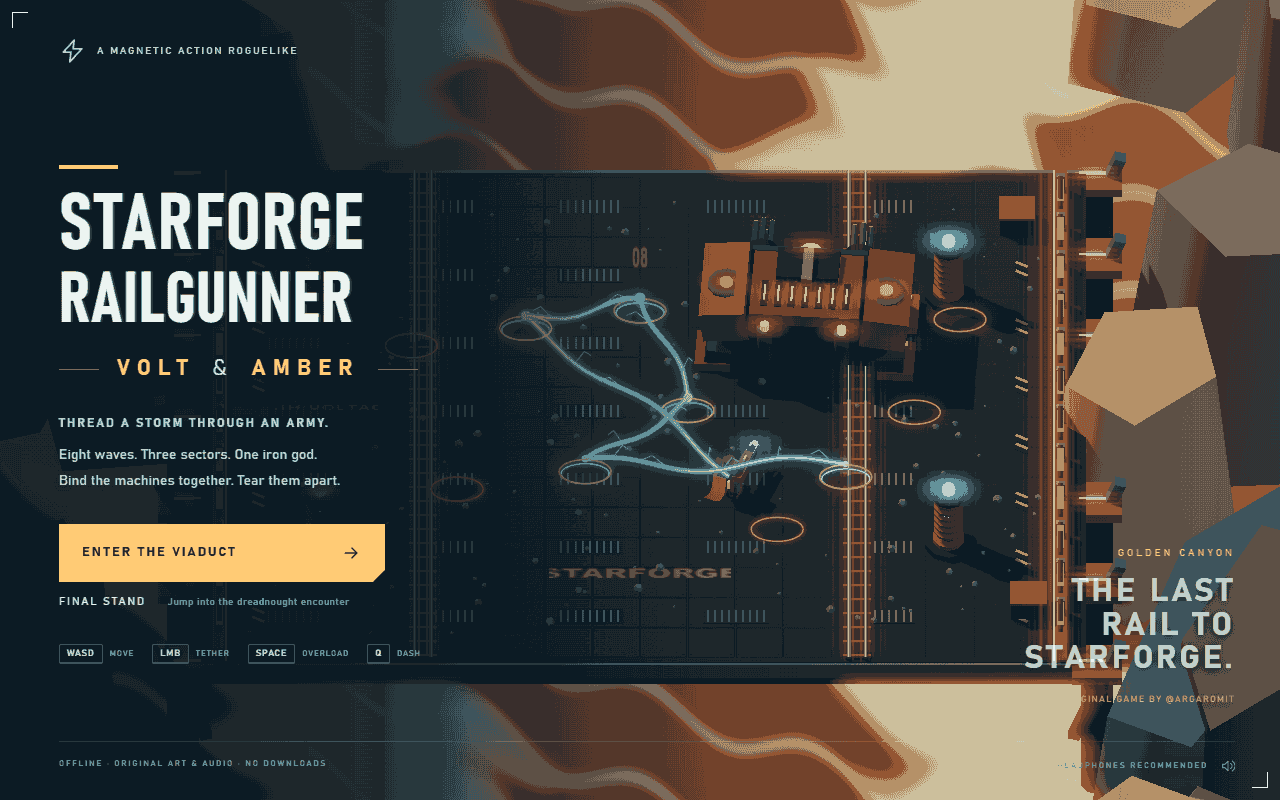
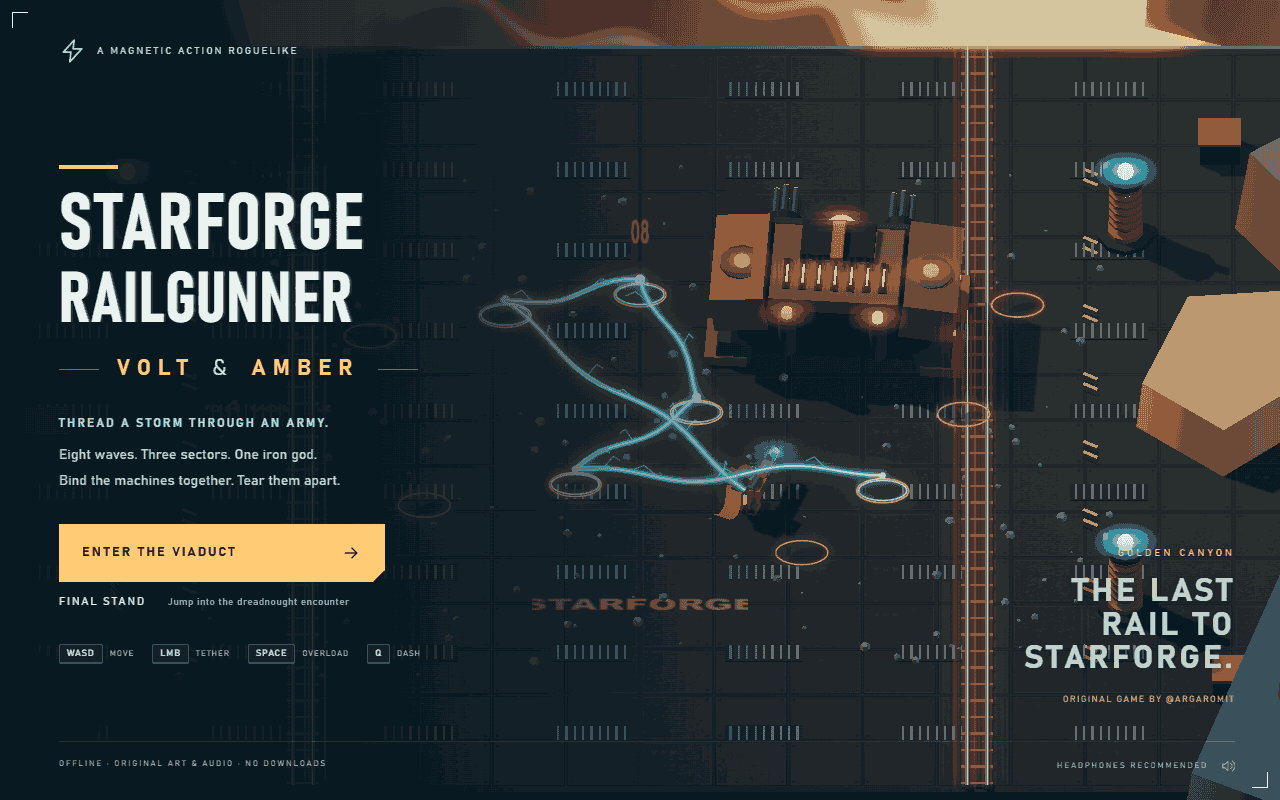
Polish Starforge camera and combat dossier

diff --git a/game/ui.css b/game/ui.css
@@ -1,3 +1,5 @@
 @font-face{font-family:Forge;src:local("Bahnschrift Condensed"),local("Bahnschrift"),local("Arial Narrow");font-weight:100 900}
+.top-center .route{width:max-content;margin:13px auto 0;padding:7px 15px;border-radius:2px;background:rgba(4,15,23,.9);border:1px solid #93bdc84d;color:#d4e3e5;box-shadow:0 2px 9px #0005}
+.damage.large{padding:2px 11px;background:#061821d9;border-block:1px solid #83f4ff5c}
 :root{color-scheme:dark;--cyan:#83f4ff;--amber:#ffca73;--coral:#ff7d64;--white:#ecf4f1;--muted:#a7b9bd;--glass:rgba(6,19,27,.83)}
 *{box-sizing:border-box}html,body{margin:0;width:100%;height:100%;overflow:hidden;background:#07141e;color:var(--white);font-family:Forge,"Arial Narrow",Arial,sans-serif}button{font:inherit;color:inherit;cursor:pointer}button:focus-visible{outline:2px solid white;outline-offset:5px}button:hover{filter:brightness(1.2)}button:active{transform:translateY(2px)}canvas{position:absolute;width:100%;height:100%;display:block;inset:0}#effects{pointer-events:none}#ui{position:absolute;inset:0;pointer-events:none;overflow:hidden}.ui-root{width:1280px;height:800px;position:absolute;left:50%;top:50%;transform-origin:50% 50%;overflow:hidden}.icon{width:22px;height:22px;flex-shrink:0;vertical-align:middle}.hidden{display:none!important}h1,h2,h3,p{margin:0}.micro{font-size:12px;letter-spacing:1.8px;font-weight:700}.hud{position:absolute;inset:0;text-shadow:0 1px 4px #000;font-variant-numeric:tabular-nums}.mission{position:absolute;left:30px;top:27px;width:270px;background:linear-gradient(100deg,var(--glass),transparent);padding:0 10px 12px 0}.sector{font-size:11px;color:var(--amber);letter-spacing:1.2px}.mission h2{font-size:27px;line-height:39px;letter-spacing:.7px;font-weight:850;white-space:nowrap}.mission h2>span{font-size:19px;color:#a5b6bb}.mission h2 small{font-size:11px;letter-spacing:.7px;margin-left:9px;color:#e2e6dd}.heat-line{display:flex;justify-content:space-between;align-items:center;width:226px;font-size:10px;font-weight:700;letter-spacing:1px;color:#c4cfd0;margin-top:4px}.heat-line span{color:var(--amber)}.meter{height:6px;background:#1a343d;overflow:hidden;transform:skewX(-14deg)}.meter i{display:block;height:100%;transition:width .12s linear}.heat{width:226px;margin-top:6px;height:5px}.heat i{background:var(--amber);box-shadow:0 0 9px #ffaf41}.incoming{display:flex;align-items:center;gap:7px;margin-top:12px;font-size:10px;color:#b1c0c4;letter-spacing:.7px;flex-wrap:wrap;max-width:250px}.incoming>.icon{width:17px;height:17px;color:#ff987c}.incoming>b{font-size:13px;color:#f2ded0;margin-right:6px}.incoming>small{flex-basis:100%;font-size:9px;letter-spacing:1.7px;color:#7ea2aa;margin-top:2px}.top-center{position:absolute;top:24px;left:354px;width:543px}.record{display:flex;gap:18px;align-items:center;justify-content:center;height:28px;font-size:10px;letter-spacing:1px}.record>span:first-child,.record>span:nth-child(2){display:flex;gap:18px;align-items:center;padding:6px 13px;border:1px solid #91f0ff38;background:#061922b3}.record b{font-size:16px;color:var(--cyan)}.record>span:nth-child(2){border-color:#e4a47436}.record>span:nth-child(2) b{color:var(--amber)}.record time{font-size:13px;letter-spacing:1px;color:#d8e2df}.record>i{height:15px;width:1px;background:#fff3}.run-tag{font-size:9px;color:#90afb5}.boss{margin-top:17px}.boss>div:first-child{display:flex;align-items:baseline;gap:13px;margin-bottom:7px;font-size:11px;letter-spacing:1.2px}.boss b{font-size:17px;color:#fff0e2}.boss span{font-size:9px;color:#d7b7a0}.boss small{margin-left:auto;color:var(--amber);font-size:11px}.boss-track{height:9px;border:1px solid #ffbd634d;padding:2px;background:#111b22}.boss-track i{display:block;height:100%;background:linear-gradient(90deg,#fb7757,#ffd27d);box-shadow:0 0 12px #ffb24699}.route{display:flex;gap:10px;align-items:center;justify-content:center;margin-top:13px;font-size:9px;letter-spacing:1px;color:#72929e}.route>i{width:30px;height:1px;background:#76939d66}.route span.active{color:var(--amber)}.scoring{position:absolute;right:30px;top:25px;width:244px;text-align:right;background:linear-gradient(-90deg,var(--glass),transparent)}.scoring>label{font-size:10px;letter-spacing:3px;color:#afc1c4}.scoring>strong{font-size:42px;font-weight:800;letter-spacing:1px;display:block;line-height:46px}.combo{font-size:11px;letter-spacing:1.5px;color:#b2c9cd}.combo b{color:var(--cyan);font-size:23px;margin-left:13px}.currency{display:flex;align-items:center;justify-content:flex-end;gap:8px;margin-top:10px;font-size:9px;letter-spacing:1px;color:#d5b78e}.currency .icon{width:16px;height:16px;color:var(--amber)}.currency b{font-size:17px;color:var(--amber);margin-left:5px}.equipment{position:absolute;right:29px;top:205px;width:172px;background:linear-gradient(-90deg,#071b25c9,transparent);padding-left:5px}.equipment h3{font-size:10px;letter-spacing:1.8px;font-weight:700;color:#d0dedc;border-bottom:1px solid #c5e8f433;padding-bottom:9px}.mod{display:flex;align-items:center;gap:8px;margin-top:14px;position:relative;height:27px}.mod .icon{width:21px;height:21px;color:var(--cyan)}.mod:nth-child(3) .icon{color:var(--amber)}.mod:nth-child(4) .icon{color:var(--coral)}.mod>span{font-size:9px;letter-spacing:.7px}.mod>b{display:flex;gap:4px;position:absolute;left:30px;top:23px}.mod i{display:block;width:17px;height:3px;background:#4f6c745c}.mod i.on{background:var(--cyan);box-shadow:0 0 5px #83f4ff88}.mod:nth-child(3) i.on{background:var(--amber)}.mod:nth-child(4) i.on{background:var(--coral)}.equipment h3.relic-title{margin-top:31px;padding-bottom:9px}.relics{display:flex;gap:8px;margin-top:12px}.relics>div{display:flex;align-items:center;flex-direction:column;width:47px;height:55px;border:1px solid #83f4ff3d;background:#142f3a99;padding-top:8px;color:var(--cyan)}.relics>div:nth-child(2){color:var(--amber);border-color:#ffca734f;background:#372a1b99}.relics>div:nth-child(3){color:#d2adff;border-color:#d2adff4d;background:#28223c99}.relics small{font-size:6px;letter-spacing:.4px;white-space:nowrap;margin-top:8px}.circuit-count{position:absolute;left:31px;bottom:145px;display:flex;align-items:center;gap:12px;background:linear-gradient(90deg,#061923bd,transparent);padding:7px 30px 7px 0}.circuit-count>span{font-size:45px;font-weight:800;line-height:45px;color:var(--cyan)}.circuit-count>div:nth-child(2){font-size:11px;letter-spacing:1.5px}.circuit-count small{display:block;font-size:8px;letter-spacing:1.2px;color:var(--amber);margin-top:6px}.circuit-lights{display:flex;position:absolute;left:0;bottom:-5px;gap:4px}.circuit-lights>i{display:block;width:25px;height:3px;background:#4c6e7955}.circuit-lights>i.lit{background:var(--cyan);box-shadow:0 0 8px #6ef2ff}.bottom-hud{position:absolute;bottom:0;left:0;width:100%;height:116px;background:linear-gradient(0deg,#05141bf5,#05141bb8 75%,transparent);border-bottom:3px solid #be94523b}.vitals{position:absolute;left:31px;bottom:21px;width:280px}.armor-label{display:flex;align-items:center;gap:8px;font-size:11px;letter-spacing:1.1px;margin-bottom:8px}.armor-label .icon{width:19px;height:19px;color:var(--cyan)}.armor-label>strong{margin-left:auto;font-size:22px;letter-spacing:0;line-height:25px}.armor-label small{font-size:14px;color:#91acb1}.armor{height:9px}.armor i{background:var(--cyan);box-shadow:0 0 9px #6ed6ee}.capacitor-label{display:flex;justify-content:space-between;font-size:9px;letter-spacing:1.2px;margin:11px 0 6px;color:#c5d6d7}.capacitor-label>b{color:var(--amber)}.capacitor{height:4px}.capacitor i{background:var(--amber)}.controls{display:flex;align-items:center;gap:24px;position:absolute;bottom:43px;left:364px}.controls>div{display:flex;flex-direction:column;gap:8px;font-size:9px;letter-spacing:1px;color:#bbd0d0}.controls>div kbd{color:#e9f5ee;font-size:12px;line-height:24px;min-height:25px}.controls .overload-key kbd{color:var(--cyan);border-color:#83f4ff5e}.controls>p{position:absolute;bottom:-25px;left:0;font-size:8px;letter-spacing:3.5px;color:#829fa7;white-space:nowrap}.controls p i{margin:0 10px;color:var(--amber);font-style:normal}kbd{font:inherit;border:1px solid #bad2d142;border-bottom-width:2px;padding:4px 7px;background:#102a3380;border-radius:2px}.utility{position:absolute;right:30px;bottom:35px;display:flex;gap:9px}.utility button{pointer-events:auto;width:36px;height:36px;border:1px solid #c9e7e12d;background:#17343b66;color:#b0cbd0;padding:7px}.utility .icon{width:20px;height:20px}.utility .muted{opacity:.4}.announcer{position:absolute;left:50%;top:177px;text-align:center;transform:translate(-50%,-8px);opacity:0;transition:opacity .25s,transform .3s;pointer-events:none;text-shadow:0 2px 10px #000}.announcer.show{opacity:1;transform:translate(-50%,0)}.announcer b{display:block;font-size:28px;letter-spacing:3px;color:#fff1d8}.announcer span{display:block;font-size:10px;letter-spacing:2px;color:var(--amber);margin-top:4px}.damage{position:absolute;font-size:24px;font-weight:850;color:var(--cyan);text-shadow:0 2px 3px #031724,0 0 12px #58d8ff9c;animation:float-damage 1.15s ease-out forwards;white-space:nowrap}.damage.amber{color:var(--amber);text-shadow:0 2px 3px #221505,0 0 12px #ffa63899}.damage.coral{color:var(--coral)}.damage.large{font-size:37px;letter-spacing:1px;font-style:italic}.modal{position:absolute;inset:0;background:linear-gradient(90deg,#03141bf5,#041820d4 45%,#03172233);pointer-events:auto;text-shadow:0 2px 9px #00101aaa}.modal.title{background:linear-gradient(90deg,#041520ee 0%,#051b25e6 30%,#03131e55 56%,#06172305 100%)}.title-mark{position:absolute;left:59px;top:38px;display:flex;align-items:center;gap:12px;font-size:10px;letter-spacing:2px;color:#bed5d4}.title-mark .icon{width:26px;height:26px;color:var(--cyan)}.title-content{position:absolute;left:59px;top:165px;width:645px}.title-rule{width:59px;height:4px;background:var(--amber);margin-bottom:21px}.title-content h1{font-family:Forge,Impact,"Arial Black",sans-serif;font-stretch:condensed;font-size:79px;line-height:.91;letter-spacing:1.5px;font-weight:900;text-shadow:0 3px 2px #001923,2px 0 #70b4c747}.title-content h1>span{font-size:71px;line-height:1.12}.subtitle{display:flex;align-items:center;gap:18px;margin-top:15px;width:466px;font-size:22px;font-weight:700;letter-spacing:7px;color:var(--amber)}.subtitle em{font-style:normal;color:#d4e6e5;font-weight:300}.subtitle i{height:1px;background:#d9b47688;width:40px}.title-promise{font-size:12px;letter-spacing:2px;margin-top:34px;color:var(--cyan);font-weight:650}.title-copy{font-size:14px;line-height:1.8;margin-top:13px;color:#b9cbd0}.primary{display:flex;align-items:center;justify-content:space-between;gap:40px;min-width:326px;background:var(--amber);color:#152129;border:1px solid #ffe1a5;box-shadow:0 4px 30px #ffb13c1a;padding:18px 22px;font-size:13px;letter-spacing:2px;font-weight:800;text-shadow:none;clip-path:polygon(0 0,100% 0,100% calc(100% - 12px),calc(100% - 12px) 100%,0 100%)}.title-content>.primary{margin-top:30px}.primary>.icon{height:20px}.secondary{display:block;background:none;border:0;padding:13px 0;font-size:11px;letter-spacing:1.8px;color:#d5e9e6;text-align:left}.secondary>span{color:#94aeb6;font-size:10px;letter-spacing:.4px;margin-left:17px;font-weight:400}.title-controls{display:flex;gap:18px;margin-top:27px;white-space:nowrap}.title-controls>span{font-size:8px;letter-spacing:.9px;color:#90adb7}.title-controls kbd{font-size:9px;color:#dce9e5;margin-right:4px}.title-side{position:absolute;right:45px;bottom:95px;text-align:right;opacity:.9;text-shadow:0 2px 10px #091524}.title-side>span{color:var(--amber);font-size:10px;letter-spacing:3px}.title-side>b{display:block;font-size:32px;line-height:1.05;letter-spacing:3px;margin-top:15px;color:#e4e6d9}.title-side>p{font-size:9px;letter-spacing:1.3px;margin-top:17px;color:#d5bb8c}.title-footer{position:absolute;left:59px;right:45px;bottom:27px;display:flex;justify-content:space-between;border-top:1px solid #a9d0d02a;padding-top:17px;font-size:8px;letter-spacing:1.8px;color:#8aa6b0}.title-footer .icon{width:14px;height:14px;margin-left:9px}.modal.upgrade,.modal.victory,.modal.defeat,.modal.paused{background:linear-gradient(120deg,#05161cf5,#09232cf0);backdrop-filter:blur(9px)}.upgrade-heading{text-align:center;position:absolute;top:111px;left:0;width:100%}.upgrade-heading .micro{font-size:10px;color:var(--amber);letter-spacing:3px}.upgrade-heading h1{font-size:51px;letter-spacing:2px;line-height:1.2;margin-top:15px;font-weight:850}.upgrade-heading p{font-size:13px;color:#a5c2c8;margin-top:11px}.upgrade-cards{position:absolute;left:115px;top:292px;display:flex;gap:23px}.upgrade-card{width:334px;height:341px;border:1px solid #83f4ff5c;background:linear-gradient(145deg,#153842dd,#091d27);padding:25px 27px;text-align:left;position:relative;color:var(--cyan);transition:transform .2s,border-color .2s}.upgrade-card:hover,.upgrade-card:focus-visible{transform:translateY(-9px);border-color:currentColor;filter:none;background:#163b47}.upgrade-card.amber{color:var(--amber);border-color:#ffca7355;background:linear-gradient(145deg,#3c3423dd,#141e21)}.upgrade-card.coral{color:var(--coral);border-color:#ff7d6455;background:linear-gradient(145deg,#3c2926dd,#161e24)}.card-number{position:absolute;right:24px;top:22px;font-size:8px;letter-spacing:1.7px;color:#93b0b9}.upgrade-emblem{width:63px;height:63px;display:flex;align-items:center;justify-content:center;border:1px solid currentColor;transform:rotate(45deg);margin:13px 0 30px 14px}.upgrade-emblem .icon{width:35px;height:35px;transform:rotate(-45deg)}.card-tag{display:block;font-size:8px;letter-spacing:2.5px;margin-bottom:8px}.upgrade-card h2{font-size:29px;letter-spacing:.3px;color:#edf3e9;font-weight:850;white-space:nowrap}.upgrade-card>strong{font-size:10px;letter-spacing:1px;display:block;margin-top:13px}.upgrade-card>p{font-size:12px;line-height:1.8;color:#aec3c7;margin-top:12px;max-width:270px}.card-bottom{position:absolute;bottom:20px;left:27px;right:27px;border-top:1px solid #c8eff222;padding-top:13px;display:flex;align-items:center;gap:10px;font-size:9px;letter-spacing:1.2px}.card-bottom .icon{height:15px;width:15px}.card-bottom small{margin-left:auto;font-size:9px;color:#b5c8c7}.workshop-foot{position:absolute;left:126px;right:125px;bottom:100px;display:flex;align-items:center;gap:11px;font-size:10px;letter-spacing:1.6px;color:#b5d5d0}.workshop-foot .icon{width:17px;height:17px;color:var(--cyan)}.workshop-foot>span{margin-left:auto;color:#738f9a;font-size:9px}.result-content{position:absolute;left:50%;top:66px;transform:translateX(-50%);width:830px;text-align:center}.result-medal{margin:auto auto 21px;display:flex;align-items:center;justify-content:center;width:83px;height:83px;border:1px solid #ffca7355;color:var(--amber);clip-path:polygon(50% 0,95% 25%,95% 75%,50% 100%,5% 75%,5% 25%);background:#a67c2520}.result-medal>.icon{width:45px;height:45px}.result-content>.micro{color:#b4d0d2;font-size:10px;letter-spacing:3px}.result-content>h1{font-size:93px;letter-spacing:8px;line-height:1.1;margin-top:17px;font-weight:850;color:#f4f0da}.defeat h1{font-size:70px;color:var(--coral)}.result-rank{margin-top:8px;font-size:29px;font-weight:700;letter-spacing:6px;color:var(--amber);display:flex;justify-content:center;align-items:center;gap:23px}.result-rank>span{border-left:1px solid #e8c68466;padding-left:23px;font-size:12px;letter-spacing:3px;color:#a3d8df}.result-content>p{font-size:13px;color:#aec8cd;margin-top:22px}.result-stats{display:flex;margin:41px auto 34px;border-top:1px solid #c0ebf131;border-bottom:1px solid #c0ebf131;padding:24px 0;justify-content:center;gap:38px}.result-stats>div{min-width:140px;display:flex;flex-direction:column;gap:9px}.result-stats span{font-size:9px;letter-spacing:1.5px;color:#8babb5}.result-stats b{font-size:33px;color:var(--cyan)}.result-stats>div:first-child b{color:var(--amber)}.result-content>.primary{margin:auto;min-width:346px}.result-content>.secondary{margin:7px auto}.result-note{display:block;color:#729ba6;font-size:8px;letter-spacing:2px;margin-top:26px}.pause-content{width:490px;position:absolute;left:395px;top:222px;text-align:center}.pause-content>.micro{color:var(--amber)}.pause-content h1{font-size:51px;letter-spacing:2px;margin:17px 0}.pause-content>p{color:#9db8be;font-size:14px}.pause-content>.primary{margin:35px auto 10px}.pause-content>.secondary{margin:auto}.pause-help{line-height:2.3;margin-top:25px}.frame-tl,.frame-br{position:absolute;width:16px;height:16px;border-color:#c6eaf340;pointer-events:none}.frame-tl{left:12px;top:12px;border-left:1px solid;border-top:1px solid}.frame-br{right:12px;bottom:12px;border-right:1px solid;border-bottom:1px solid}#loading{position:absolute;inset:0;background:#071820;display:flex;justify-content:center;align-items:center;flex-direction:column;gap:18px;z-index:99}#loading>span{font:900 50px Forge,Arial;letter-spacing:7px;color:var(--amber)}#loading>small{font-size:10px;letter-spacing:5px;color:var(--cyan)}@keyframes float-damage{0%{opacity:0;transform:translate(-50%,5px) scale(.8)}12%{opacity:1;transform:translate(-50%,-5px) scale(1.05)}65%{opacity:1}100%{opacity:0;transform:translate(-50%,-65px) scale(.93)}}@media(prefers-reduced-motion:reduce){.damage{animation-duration:.8s}.upgrade-card{transition:none}}

diff --git a/game/world.js b/game/world.js
@@ -31,7 +31,7 @@ export class StarforgeWorld {
     this.renderer.shadowMap.enabled = true; this.renderer.shadowMap.type = T.PCFSoftShadowMap;
     this.renderer.outputColorSpace = T.SRGBColorSpace; this.renderer.toneMapping = T.ACESFilmicToneMapping; this.renderer.toneMappingExposure = 1.3;
     this.scene = new T.Scene(); this.scene.background = new T.Color(0x314659); this.scene.fog = new T.FogExp2(0x6d6660, .006);
-    this.camera = new T.OrthographicCamera(-28, 28, 17.5, -17.5, .1, 180); this.baseCamera = new T.Vector3(0, 38, 31); this.camera.position.copy(this.baseCamera); this.camera.lookAt(0, 0, -1);
+    this.camera = new T.OrthographicCamera(-28, 28, 17.5, -17.5, .1, 180); this.camera.zoom = 1.18; this.baseCamera = new T.Vector3(0, 38, 31); this.cameraTarget = new T.Vector3(0, 0, -1); this.camera.position.copy(this.baseCamera); this.camera.lookAt(this.cameraTarget);
     this.scene.add(new T.HemisphereLight(0xbce7ff, 0x9b5834, 2.1));
     const sun = new T.DirectionalLight(0xffd8a5, 3.9); sun.position.set(-24, 31, -14); sun.castShadow = true; sun.shadow.mapSize.set(2048, 2048); sun.shadow.camera.left = -30; sun.shadow.camera.right = 30; sun.shadow.camera.top = 26; sun.shadow.camera.bottom = -26; sun.shadow.normalBias = .035; sun.shadow.bias = -.0002; sun.shadow.camera.far = 110; this.scene.add(sun);
     const fill = new T.DirectionalLight(0x71bfff, 1.45); fill.position.set(18, 18, 12); this.scene.add(fill);
@@ -64,34 +64,34 @@ export class StarforgeWorld {
   buildViaduct() {
     const g = new T.Group();
     const floorMat = new T.MeshStandardMaterial({ color: 0x8b999b, map: plateTexture(), roughness: .85, metalness: .38 });
-    part(g, 'box', MAT.dark, 0, -.75, 0, 39, 1.5, 28);
-    part(g, 'box', floorMat, 0, -.12, 0, 37.5, .25, 27.5);
+    part(g, 'box', MAT.dark, 0, -.75, 0, 51, 1.5, 36);
+    part(g, 'box', floorMat, 0, -.12, 0, 49.5, .25, 35.5);
     const metal = new T.MeshStandardMaterial({ color: 0x637580, roughness: .66, metalness: .7 });
-    for (const x of [-18.4, 18.4]) {
-      part(g, 'box', MAT.copper, x, .08, 0, .52, .18, 28);
-      part(g, 'box', MAT.amber, x - Math.sign(x) * .28, .13, 0, .08, .1, 28);
-      for (let z = -13; z <= 13; z += 2.2) {
+    for (const x of [-24.4, 24.4]) {
+      part(g, 'box', MAT.copper, x, .08, 0, .52, .18, 36);
+      part(g, 'box', MAT.amber, x - Math.sign(x) * .28, .13, 0, .08, .1, 36);
+      for (let z = -17; z <= 17; z += 2.2) {
         part(g, 'box', metal, x, .5, z, .38, 1.0, .23);
         part(g, 'box', MAT.dark, x, .93, z + .9, .25, .17, 1.75);
         part(g, 'box', MAT.gold, x, .98, z + .85, .27, .07, 1.3);
       }
     }
-    for (const x of [-9.5, 9.5]) {
-      part(g, 'box', MAT.dark, x, .03, 0, 1.1, .13, 27.7);
-      for (const dx of [-.37, .37]) { part(g, 'box', metal, x + dx, .17, 0, .16, .18, 27.8); part(g, 'box', MAT.amber, x + dx, .28, 0, .045, .04, 27.8); }
-      for (let z = -13.5; z < 14; z += .8) part(g, 'box', MAT.copper, x, .09, z, 1.2, .13, .11);
+    for (const x of [-12.5, 12.5]) {
+      part(g, 'box', MAT.dark, x, .03, 0, 1.1, .13, 35.7);
+      for (const dx of [-.37, .37]) { part(g, 'box', metal, x + dx, .17, 0, .16, .18, 35.8); part(g, 'box', MAT.amber, x + dx, .28, 0, .045, .04, 35.8); }
+      for (let z = -17.5; z < 18; z += .8) part(g, 'box', MAT.copper, x, .09, z, 1.2, .13, .11);
     }
-    for (let z = -14; z <= 14; z += 4.65) {
-      part(g, 'box', metal, 0, -.5, z, 40.5, .9, .42);
-      for (const x of [-20, 20]) {
+    for (let z = -18; z <= 18; z += 4.65) {
+      part(g, 'box', metal, 0, -.5, z, 52.5, .9, .42);
+      for (const x of [-26, 26]) {
         part(g, 'box', MAT.copper, x, -.3, z, 2.2, .5, 1.9);
         part(g, 'cylinder', MAT.dark, x, -4.2, z, 1.5, 8, 1.5);
         part(g, 'box', metal, x, -2, z, .5, 6.5, .5, 0, 0, Math.sign(x) * -.32);
         part(g, 'box', MAT.amber, x, -.02, z, 1.6, .06, .13);
       }
     }
-    for (let z = -12; z <= 12; z += 3.9) {
-      for (let x = -15; x <= 16; x += 6.4) {
+    for (let z = -16; z <= 16; z += 3.9) {
+      for (let x = -21; x <= 21; x += 6.4) {
         part(g, 'box', MAT.dark, x, .032, z, 2.9, .04, .8);
         for (let j = 0; j < 9; j++) part(g, 'box', metal, x - 1.24 + j * .31, .059, z, .085, .045, .69);
       }
@@ -101,7 +101,7 @@ export class StarforgeWorld {
     }
     this.scene.add(mergeParts(g));
     this.pillars = [];
-    for (const [x, z] of [[-14, -7], [13.5, -7], [-14, 7.2], [13.5, 7.2]]) {
+    for (const [x, z] of [[-19, -9], [18, -9], [-19, 9], [18, 9]]) {
       const p = new T.Group();
       part(p, 'cylinder', 'dark', 0, .15, 0, 2.15, .3, 2.15);
       part(p, 'cylinder', 'copper', 0, .38, 0, 1.4, .25, 1.4);
@@ -115,7 +115,7 @@ export class StarforgeWorld {
     const decals = [['STARFORGE', 0, 9, 8, 1.2], ['08', 0, -9, 3.3, 2.5], ['HIGH VOLTAGE', -13.8, -.5, 4.7, .7]];
     for (const [text, x, z, w, h] of decals) { const d = new T.Mesh(new T.PlaneGeometry(w, h), groundDecal(text)); d.rotation.x = -Math.PI / 2; d.position.set(x, .045, z); this.scene.add(d); }
     const decor = new T.Group();
-    for (const [x, z] of [[-17, 1], [17, 11], [-17, -11], [16.5, -11]]) {
+    for (const [x, z] of [[-22, 1], [22, 13], [-22, -13], [21.5, -13]]) {
       part(decor, 'box', 'dark', x, .55, z, 1.5, 1.1, 1.2); part(decor, 'box', 'copper', x, 1.13, z, 1.6, .14, 1.3);
       for (let j = 0; j < 4; j++) part(decor, 'box', 'steel', x - .52 + j * .35, .6, z - .63, .1, .6, .08);
       part(decor, 'box', 'amber', x, .87, z - .68, .62, .08, .05);
@@ -146,6 +146,22 @@ export class StarforgeWorld {
     this.raycaster.setFromCamera(new T.Vector2(clientX / innerWidth * 2 - 1, -(clientY / innerHeight * 2 - 1)), this.camera);
     const hit = new T.Vector3(); this.raycaster.ray.intersectPlane(this.plane, hit); return { x: hit.x, z: hit.z };
   }
+  followCamera(game, dt, pointer = null) {
+    const play = game.mode !== 'title';
+    const mouseX = pointer ? (pointer.x / innerWidth - .5) * 5.2 : 0;
+    const mouseZ = pointer ? (pointer.y / innerHeight - .5) * 3.6 : 0;
+    const x = play ? game.player.x * .78 + mouseX : 0;
+    const z = play ? game.player.z * .78 + mouseZ - 1 : -1;
+    const blend = 1 - Math.exp(-dt * 7.5);
+    this.cameraTarget.x += (x - this.cameraTarget.x) * blend;
+    this.cameraTarget.z += (z - this.cameraTarget.z) * blend;
+    const shake = game.reducedMotion ? 0 : game.shake ** 2;
+    this.camera.position.copy(this.baseCamera).add(this.cameraTarget);
+    this.camera.position.z += 1 + Math.cos(game.time * 101) * shake * .3;
+    this.camera.position.x += Math.sin(game.time * 137) * shake * .42;
+    this.camera.lookAt(this.cameraTarget);
+    this.camera.updateMatrixWorld();
+  }
   sync(game, time) {
     const p = game.player; this.player.position.set(p.x, 0, p.z); this.player.rotation.y = Math.atan2(p.x - game.aim.x, p.z - game.aim.z);
     animateModel(this.player, time, p.moving, p.dashTime > 0);
@@ -160,8 +176,6 @@ export class StarforgeWorld {
     if (game.boss && !this.boss) { this.boss = dreadnoughtModel(); this.scene.add(this.boss); }
     if (this.boss) { this.boss.visible = !!game.boss; if (game.boss) { this.boss.position.set(game.boss.x, 0, game.boss.z); this.boss.rotation.y = Math.sin(time * .3) * .1; animateModel(this.boss, time); } }
     this.lava.uniforms.uTime.value = time;
-    const shake = game.reducedMotion ? 0 : game.shake * game.shake;
-    this.camera.position.copy(this.baseCamera); this.camera.position.x += Math.sin(time * 137) * shake * .42; this.camera.position.z += Math.cos(time * 101) * shake * .3; this.camera.lookAt(0, 0, -1);
   }
   render() {
     const r = this.renderer; r.info.autoReset = false; r.info.reset();

diff --git a/game/main.js b/game/main.js
@@ -10,6 +10,7 @@ const game = new CombatGame(world.pillars, audio);
 const fx = new PlasmaEffects(world);
 const input = { up: false, down: false, left: false, right: false, fire: false, dash: false, overload: false };
 let suspended = false, lastTime = performance.now(), simAccumulator = 0;
+let pointer = null;
 const clearInput = () => { for (const k of Object.keys(input)) input[k] = false; };
 const start = mode => { clearInput(); fx.clear(); game.start(mode); };
 const title = () => { clearInput(); fx.clear(); game.reset(); game.attract(); };
@@ -30,7 +31,7 @@ addEventListener('keydown', e => {
   if (e.code === 'KeyF') fullscreen();
 });
 addEventListener('keyup', e => { if (keymap[e.code]) input[keymap[e.code]] = false; });
-addEventListener('pointermove', e => game.setAim(world.aim(e.clientX, e.clientY)));
+addEventListener('pointermove', e => { pointer = { x: e.clientX, y: e.clientY }; game.setAim(world.aim(pointer.x, pointer.y)); });
 addEventListener('pointerdown', e => { if (e.target.closest('button') || game.mode !== 'playing') return; audio.unlock(); if (e.button === 0) input.fire = true; if (e.button === 2) input.overload = true; });
 addEventListener('pointerup', e => { if (e.button === 0) input.fire = false; });
 addEventListener('pointercancel', clearInput);
@@ -41,25 +42,38 @@ document.addEventListener('visibilitychange', () => { if (document.hidden) { cle
 function processEvents() {
   for (const e of game.events) {
     fx.event(e);
-    if (e.type === 'float') { const p = world.screen(e.x, e.z, 1.7); ui.float(e.text, (p.x / 1280 - .5) * innerWidth / ui.scale + 640, (p.y / 800 - .5) * innerHeight / ui.scale + 400 + (e.dy || 0), e.color, e.large); }
+    if (e.type === 'float') {
+      const label = ui.float(e.text, 0, 0, e.color, e.large);
+      if (label) label.anchor = e;
+    }
     if (e.type === 'announce') ui.announce(e.text, e.detail);
   }
   game.events.length = 0;
+}
+function positionLabels() {
+  for (const el of ui.refs.floats.children) {
+    const e = el.anchor;
+    const p = world.screen(e.x, e.z, 1.7);
+    el.style.left = `${(p.x / 1280 - .5) * innerWidth / ui.scale + 640}px`;
+    el.style.top = `${(p.y / 800 - .5) * innerHeight / ui.scale + 400 + (e.dy || 0)}px`;
+  }
 }
 function frame(now) {
   requestAnimationFrame(frame);
   const dt = Math.min(.05, (now - lastTime) / 1000); lastTime = now;
   if (!suspended) {
+    if (game.mode === 'playing' || game.mode === 'title') world.followCamera(game, dt, pointer);
+    if (pointer && game.mode === 'playing') game.setAim(world.aim(pointer.x, pointer.y));
     simAccumulator += dt;
     let steps = 0;
     while (simAccumulator >= 1 / 120 && steps++ < 6) { game.update(1 / 120, input); simAccumulator -= 1 / 120; input.dash = false; input.overload = false; }
     if (steps >= 6) simAccumulator = 0;
     fx.update(dt);
   }
-  ui.update(game.state()); processEvents(); world.sync(game, game.time); world.render(); fx.draw(game);
+  ui.update(game.state()); processEvents(); positionLabels(); world.sync(game, game.time); world.render(); fx.draw(game);
   audio.update(game.mode === 'playing');
 }
-ui.update(game.state()); world.sync(game, 0); world.render(); fx.draw(game);
+ui.update(game.state()); world.followCamera(game, 2); world.sync(game, 0); world.render(); fx.draw(game);
 document.querySelector('#loading').remove(); requestAnimationFrame(frame);
 
 // Reproducible QA hooks are available only on localhost with an explicit query flag.
@@ -67,8 +81,9 @@ if (new URLSearchParams(location.search).get('qa') === '1' && ['127.0.0.1', 'loc
   window.__STARFORGE__ = {
     game, world, ui, fx, input,
     snapshot: () => ({ ...game.state(), player: { ...game.player }, enemyCount: game.enemies.length, totalBolts: game.totalBolts, totalLinks: game.totalLinks, projectiles: game.projectiles.length, ...world.diagnostics() }),
+    getPointer: () => pointer,
     freeze(value = true) { suspended = value; },
-    advance(seconds, intent = {}) { Object.assign(input, intent); for (let i = 0; i < Math.ceil(seconds * 120); i++) game.update(1 / 120, input); clearInput(); ui.update(game.state()); processEvents(); world.sync(game, game.time); world.render(); fx.draw(game); },
+    advance(seconds, intent = {}) { Object.assign(input, intent); for (let i = 0; i < Math.ceil(seconds * 120); i++) game.update(1 / 120, input); clearInput(); world.followCamera(game, 2); ui.update(game.state()); processEvents(); positionLabels(); world.sync(game, game.time); world.render(); fx.draw(game); },
     captureState(name) {
       clearInput(); fx.clear(); suspended = true;
       if (name === 'title') { title(); game.time = 13; }
@@ -81,13 +96,13 @@ if (new URLSearchParams(location.search).get('qa') === '1' && ['127.0.0.1', 'loc
         nodes.forEach((e, i) => { e.x = positions[i][0]; e.z = positions[i][1]; });
         game.player.x = -9; game.player.z = 3; game.aim = { x: 4, z: -3 };
         game.boss.x = 7; game.boss.z = -4.4; game.boss.hp = 4580;
-        ui.update(game.state()); world.sync(game, game.time); world.render();
-        game.overload(); processEvents();
+        ui.update(game.state());
+        game.overload(); processEvents(); positionLabels();
         fx.update(.14);
         for (const el of ui.refs.floats.children) { el.style.animationPlayState = 'paused'; el.style.animationDelay = '-.18s'; }
       } else if (name === 'upgrade') { game.start(); game.mode = 'upgrade'; game.wave = 3; game.sector = 1; game.mods = { voltage: 0, gravity: 0, repair: 0 }; game.events.length = 0; }
       else if (name === 'victory') { game.start('final'); game.mode = 'victory'; game.score = 281460; game.kills = 196; game.bestChain = 8; game.elapsed = 342; game.boss = null; game.events.length = 0; }
-      ui.update(game.state()); world.sync(game, game.time); world.render(); fx.draw(game); return this.snapshot();
+      world.followCamera(game, 2); positionLabels(); ui.update(game.state()); world.sync(game, game.time); world.render(); fx.draw(game); return this.snapshot();
     },
   };
   window.__THREE_GAME_DIAGNOSTICS__ = () => world.diagnostics();

diff --git a/game/vfx.js b/game/vfx.js
@@ -10,16 +10,15 @@ export class PlasmaEffects {
   }
   point(x, z, y = 1) { return this.world.screen(x, z, y); }
   sparks(x, z, count, color = 'amber', force = 1) {
-    const origin = this.point(x, z, 1);
-    for (let i = 0; i < count; i++) { const a = this.random() * Math.PI * 2, speed = (30 + this.random() * 220) * force; this.particles.push({ x: origin.x, y: origin.y, vx: Math.cos(a) * speed, vy: Math.sin(a) * speed * .7 - 40, life: .2 + this.random() * .75, max: 1, color, size: this.random() * 2.8 + .7 }); }
+    for (let i = 0; i < count; i++) { const a = this.random() * Math.PI * 2, speed = (30 + this.random() * 220) * force; this.particles.push({ anchorX: x, anchorZ: z, x: 0, y: 0, vx: Math.cos(a) * speed, vy: Math.sin(a) * speed * .7 - 40, life: .2 + this.random() * .75, color, size: this.random() * 2.8 + .7 }); }
     if (this.particles.length > 800) this.particles.splice(0, this.particles.length - 800);
   }
   event(e) {
     if (e.type === 'overload') {
-      const p = this.point(e.x, e.z, .6); this.rings.push({ x: p.x, y: p.y, radius: 15, life: .68, maxRadius: e.radius * 30 + 70 });
-      this.bursts.push({ ...p, life: .48, count: e.count, nodes: e.nodes.map(n => this.point(n.x, n.z)) });
+      this.rings.push({ x: e.x, z: e.z, radius: 15, life: .68, maxRadius: e.radius * 30 + 70 });
+      this.bursts.push({ x: e.x, z: e.z, life: .48, nodes: e.nodes });
       this.sparks(e.x, e.z, 95, 'amber', 1.5); this.sparks(e.x, e.z, 55, 'cyan', 1.1); this.flash = .2;
-    } else if (e.type === 'kill') { this.sparks(e.x, e.z, 14, 'amber', .6); const p = this.point(e.x, e.z); this.rings.push({ x: p.x, y: p.y, radius: 2, life: .23, maxRadius: 27 }); }
+    } else if (e.type === 'kill') { this.sparks(e.x, e.z, 14, 'amber', .6); this.rings.push({ x: e.x, z: e.z, radius: 2, life: .23, maxRadius: 27 }); }
     else if (e.type === 'link') this.sparks(e.x, e.z, 4, 'cyan', .25);
     else if (e.type === 'muzzle') this.sparks(e.x, e.z, 3, 'cyan', .2);
     else if (e.type === 'trail' || e.type === 'dash') this.sparks(e.x, e.z, e.type === 'dash' ? 25 : 3, 'amber', .35);
@@ -79,15 +78,17 @@ export class PlasmaEffects {
     for (const a of game.pickups) { const p = this.point(a.x, a.z, .4 + Math.sin(t * 3 + a.x) * .1); g.fillStyle = '#ffc458'; g.save(); g.translate(p.x, p.y); g.rotate(t + a.x); g.fillRect(-3, -3, 6, 6); g.restore(); }
     for (const r of this.rings) {
       const alpha = Math.min(1, r.life * 3);
-      g.globalAlpha = alpha; g.beginPath(); g.ellipse(r.x, r.y, r.radius, r.radius * .57, -.02, 0, 7); g.lineWidth = 3.6; g.strokeStyle = '#a4fbff'; g.stroke();
-      g.beginPath(); g.ellipse(r.x, r.y, r.radius * .8, r.radius * .45, .05, 0, 7); g.lineWidth = 2; g.strokeStyle = '#ffbd55'; g.stroke(); g.globalAlpha = 1;
+      const p = this.point(r.x, r.z, .6), radius = r.radius * this.world.camera.zoom;
+      g.globalAlpha = alpha; g.beginPath(); g.ellipse(p.x, p.y, radius, radius * .57, -.02, 0, 7); g.lineWidth = 3.6; g.strokeStyle = '#a4fbff'; g.stroke();
+      g.beginPath(); g.ellipse(p.x, p.y, radius * .8, radius * .45, .05, 0, 7); g.lineWidth = 2; g.strokeStyle = '#ffbd55'; g.stroke(); g.globalAlpha = 1;
     }
     for (const burst of this.bursts) {
       const k = burst.life / .48;
-      for (let i = 0; i < burst.nodes.length; i++) this.lightning(burst, burst.nodes[i], i + 50, k * 1.4);
-      const grd = g.createRadialGradient(burst.x, burst.y, 1, burst.x, burst.y, 80 * k + 10); grd.addColorStop(0, '#eaffff'); grd.addColorStop(.15, '#a8f8ff'); grd.addColorStop(.35, '#34aaccaa'); grd.addColorStop(1, '#238cb000'); g.fillStyle = grd; g.fillRect(burst.x - 100, burst.y - 100, 200, 200);
+      const p = this.point(burst.x, burst.z, .6);
+      for (let i = 0; i < burst.nodes.length; i++) this.lightning(p, this.point(burst.nodes[i].x, burst.nodes[i].z), i + 50, k * 1.4);
+      const grd = g.createRadialGradient(p.x, p.y, 1, p.x, p.y, 94 * k + 10); grd.addColorStop(0, '#eaffff'); grd.addColorStop(.15, '#a8f8ff'); grd.addColorStop(.35, '#34aaccaa'); grd.addColorStop(1, '#238cb000'); g.fillStyle = grd; g.fillRect(p.x - 105, p.y - 105, 210, 210);
     }
-    for (const p of this.particles) { g.globalAlpha = Math.min(1, p.life * 3); g.strokeStyle = p.color === 'cyan' ? '#9af9ff' : p.color === 'coral' ? '#ff8268' : '#ffcb69'; g.lineWidth = p.size; g.beginPath(); g.moveTo(p.x, p.y); g.lineTo(p.x - p.vx * .025, p.y - p.vy * .025); g.stroke(); } g.globalAlpha = 1;
+    for (const p of this.particles) { const a = this.point(p.anchorX, p.anchorZ); const x = a.x + p.x, y = a.y + p.y; g.globalAlpha = Math.min(1, p.life * 3); g.strokeStyle = p.color === 'cyan' ? '#9af9ff' : p.color === 'coral' ? '#ff8268' : '#ffcb69'; g.lineWidth = p.size; g.beginPath(); g.moveTo(x, y); g.lineTo(x - p.vx * .025, y - p.vy * .025); g.stroke(); } g.globalAlpha = 1;
     b.clearRect(0, 0, 1280, 800); b.filter = 'blur(9px)'; b.drawImage(this.glow, 0, 0); b.filter = 'none';
     c.save(); c.globalCompositeOperation = 'lighter'; c.globalAlpha = .65; c.drawImage(this.blur, 0, 0); c.filter = 'blur(3px)'; c.globalAlpha = .55; c.drawImage(this.glow, 0, 0); c.filter = 'none'; c.globalAlpha = 1; c.drawImage(this.glow, 0, 0); c.restore();
     if (this.flash > 0 && !game.reducedMotion) { c.fillStyle = `rgba(180,249,255,${this.flash * .12})`; c.fillRect(0, 0, 1280, 800); }

diff --git a/game/combat.js b/game/combat.js
@@ -63,10 +63,10 @@ export class CombatGame {
       if (this.wave > 3 && i % 9 === 0) type = 'artillery';
       if (checkpoint) {
         const angle = i * 2.39996; const radius = 4 + (i % 4) * 2.3;
-        this.spawn(type, clamp(-1 + Math.cos(angle) * radius, -16, 16), clamp(1.3 + Math.sin(angle) * radius * .76, -10, 11));
+        this.spawn(type, clamp(-1 + Math.cos(angle) * radius, -22, 22), clamp(1.3 + Math.sin(angle) * radius * .76, -14, 14));
       } else {
         const side = i % 4, t = this.random();
-        this.spawn(type, side < 2 ? (side ? 16.7 : -16.7) : -15 + t * 30, side >= 2 ? (side === 2 ? -11.5 : 11.5) : -10 + t * 20);
+        this.spawn(type, side < 2 ? (side ? 22.7 : -22.7) : -20 + t * 40, side >= 2 ? (side === 2 ? -15.5 : 15.5) : -14 + t * 28);
       }
     }
     if (this.wave === 8) this.boss = this.makeBoss();
@@ -122,7 +122,7 @@ export class CombatGame {
     this.combo = Math.min(9.99, this.combo + count * .14); this.comboTimer = 8;
     this.audio.play('overload', count);
     this.emit('overload', { x, z, count, radius, nodes: nodes.map(n => ({ x: n.x, z: n.z })) });
-    this.emit('float', { text: `CHAIN x${count}!`, x, z, large: true, color: 'cyan', dy: -66 });
+    this.emit('float', { text: `CHAIN x${count}!`, x, z, large: true, color: 'cyan', dy: -125 });
     const marked = active.filter(n => !n.boss);
     for (const target of [marked[0], marked.find(n => n.type === 'drone')].filter((n, i, list) => n && list.indexOf(n) === i)) {
       this.emit('float', { text: `+${target.score}`, x: target.x, z: target.z, color: 'amber', dy: 21 });
@@ -192,7 +192,7 @@ export class CombatGame {
     if (input.dash) this.dash(dx, dz); if (input.overload) this.overload(); if (input.fire) this.fire();
     if (p.dashTime > 0) { p.dashTime -= d; p.vx = p.dashX * 31; p.vz = p.dashZ * 31; this.emit('trail', { x: p.x, z: p.z }); }
     else { const blend = 1 - Math.exp(-d * 22); p.vx += (dx * 7.1 - p.vx) * blend; p.vz += (dz * 7.1 - p.vz) * blend; }
-    p.x = clamp(p.x + p.vx * d, -17.2, 17.2); p.z = clamp(p.z + p.vz * d, -11.7, 11.7);
+    p.x = clamp(p.x + p.vx * d, -23.2, 23.2); p.z = clamp(p.z + p.vz * d, -15.7, 15.7);
     for (const pillar of this.pillars) { const dist = distance(p, pillar), min = p.radius + pillar.radius; if (dist < min && dist > .001) { p.x += (p.x - pillar.x) / dist * (min - dist); p.z += (p.z - pillar.z) / dist * (min - dist); } }
     if (this.pendingOverload) { this.pendingOverload.time -= d; if (this.pendingOverload.time <= 0) this.resolveOverload(); }
     this.updateBolts(d); if (!this.pendingOverload) this.conduct(d); this.updateEnemies(d); this.updateProjectiles(d); this.updatePickups(d); this.updateBoss(d);
@@ -238,7 +238,7 @@ export class CombatGame {
           this.emit('enemyShot', { x: e.x, z: e.z });
         }
       }
-      e.x = clamp(e.x, -17, 17); e.z = clamp(e.z, -11.5, 11.5);
+      e.x = clamp(e.x, -23, 23); e.z = clamp(e.z, -15.5, 15.5);
     }
     for (let i = 0; i < this.enemies.length; i++) for (let j = i + 1; j < this.enemies.length; j++) {
       const a = this.enemies[i], b = this.enemies[j]; if (a.pullTime > 0 || b.pullTime > 0) continue;
@@ -248,7 +248,7 @@ export class CombatGame {
   }
   updateProjectiles(dt) {
     for (const b of this.projectiles) { b.life -= dt; b.x += b.vx * dt; b.z += b.vz * dt; if (distance(this.player, b) < this.player.radius + b.radius) { this.hurt(b.damage, 'plasma round'); b.life = 0; } }
-    this.projectiles = this.projectiles.filter(p => p.life > 0 && Math.abs(p.x) < 20 && Math.abs(p.z) < 15);
+    this.projectiles = this.projectiles.filter(p => p.life > 0 && Math.abs(p.x) < 26 && Math.abs(p.z) < 19);
   }
   updatePickups(dt) {
     for (const a of this.pickups) {
@@ -274,7 +274,7 @@ export class CombatGame {
     }
     if (distance(this.player, b) < 3) this.hurt(24, 'dreadnought impact');
     this.reinforcement += dt;
-    if (this.reinforcement > 10 && this.enemies.length < 15) { this.reinforcement = 0; for (let i = 0; i < 7; i++) this.spawn(i % 3 ? 'drone' : 'walker', -16 + this.random() * 32, this.random() > .5 ? 11 : -11); }
+    if (this.reinforcement > 10 && this.enemies.length < 15) { this.reinforcement = 0; for (let i = 0; i < 7; i++) this.spawn(i % 3 ? 'drone' : 'walker', -22 + this.random() * 44, this.random() > .5 ? 15 : -15); }
   }
   state() {
     return { mode: this.mode, wave: this.wave, sector: this.sector, heat: this.heat, score: this.score, combo: this.combo, amber: this.amber, armor: this.player.armor, maxArmor: this.player.maxArmor, capacitor: this.capacitor, chains: this.chains.length, maxChains: this.maxChains, dashCooldown: this.player.dashCooldown, bossHp: this.boss?.hp || 0, bossMaxHp: this.boss?.maxHp || 0, elapsed: this.elapsed, kills: this.kills, overloads: this.overloads, bestChain: this.bestChain, wins: this.wins, losses: this.losses, mods: this.mods, drones: this.enemies.filter(e => e.type === 'drone').length, walkers: this.enemies.filter(e => e.type !== 'drone').length, finalStand: this.finalStand };

diff --git a/game/ui.js b/game/ui.js
@@ -112,6 +112,6 @@ export class GameUI {
     if (this.mode !== 'playing') return;
     const el = document.createElement('div'); el.className = `damage ${color} ${large ? 'large' : ''}`; el.textContent = text;
     el.style.left = `${x}px`; el.style.top = `${y}px`;
-    this.refs.floats.append(el); setTimeout(() => el.remove(), 1150);
+    this.refs.floats.append(el); setTimeout(() => el.remove(), 1150); return el;
   }
 }

diff --git a/artifacts/final-evidence.md b/artifacts/final-evidence.md
@@ -17,6 +17,6 @@ All captures were taken at 1280 × 800 and reduced to indexed PNG for size. No c
 
 ## Rendering evidence
 
-At the 24-enemy checkpoint, Three.js reported 277 draw calls after batching (previously 497), 51,044 triangles, 87 geometries and 8 textures. The browser exposed AMD Radeon via ANGLE/D3D11. Visual indicators from the actual capture: 4.50 bits of color entropy, 0.33 dominant-color share, 61.62 luminance contrast, 0.049 edge density. The scene uses one 2048² shadow map and a three-pass bloom followed by composition. UA reduced-motion preference is honored for camera shake and flash.
+At the 24-enemy checkpoint, Three.js reported 277 draw calls after batching (previously 497), about 59k triangles, 87 geometries and 8 textures. The browser exposed AMD Radeon via ANGLE/D3D11. The arena spans 1920 × 1200 world units. The orthographic camera uses 1.18× zoom, exponentially eased player follow, and pointer look-ahead; the HUD remains anchored to the 1280 × 800 viewport. World-space labels, rings, bolts and sparks follow the camera. Route is backed with translucent basalt-dark glass; the CHAIN banner sits above and apart from damage labels. The scene uses one 2048² shadow map and a three-pass bloom followed by composition. UA reduced-motion preference is honored for camera shake and flash.
 
 The visual scorecard needs human inspection before any premium quality claim: pixel measurements cannot establish silhouette quality, scene composition, or legibility at the judge's reduced contact-sheet scale. The four images above are the audit set. Bounty rank and win rate depend on judging after an actual submission.

diff --git a/artifacts/game-progress.md b/artifacts/game-progress.md
@@ -19,4 +19,5 @@ Offline static native ES modules, vendored Three.js, offscreen multi-pass bloom,
 - Genuine OpenCode sessions discovered by the kit. Preflight passed model pricing, timestamps, and run record.
 - Original game implemented and running. Browser QA exercised keyboard and mouse, an eight-wave victory, two drafts, natural defeat, restart, and HUD bounds.
 - Four 1280 × 800 browser captures generated. Workshop and victory came from an input-driven run; combat uses the posed Final Stand checkpoint and the game's overload event.
+- Final polish widens the playfield to 1920 × 1200, adds smooth follow and pointer look-ahead with 1.18× zoom, anchors VFX and labels to world coordinates, backs the route with translucent dark glass, and moves the Chain banner above damage labels.
 - No login or submit performed.
